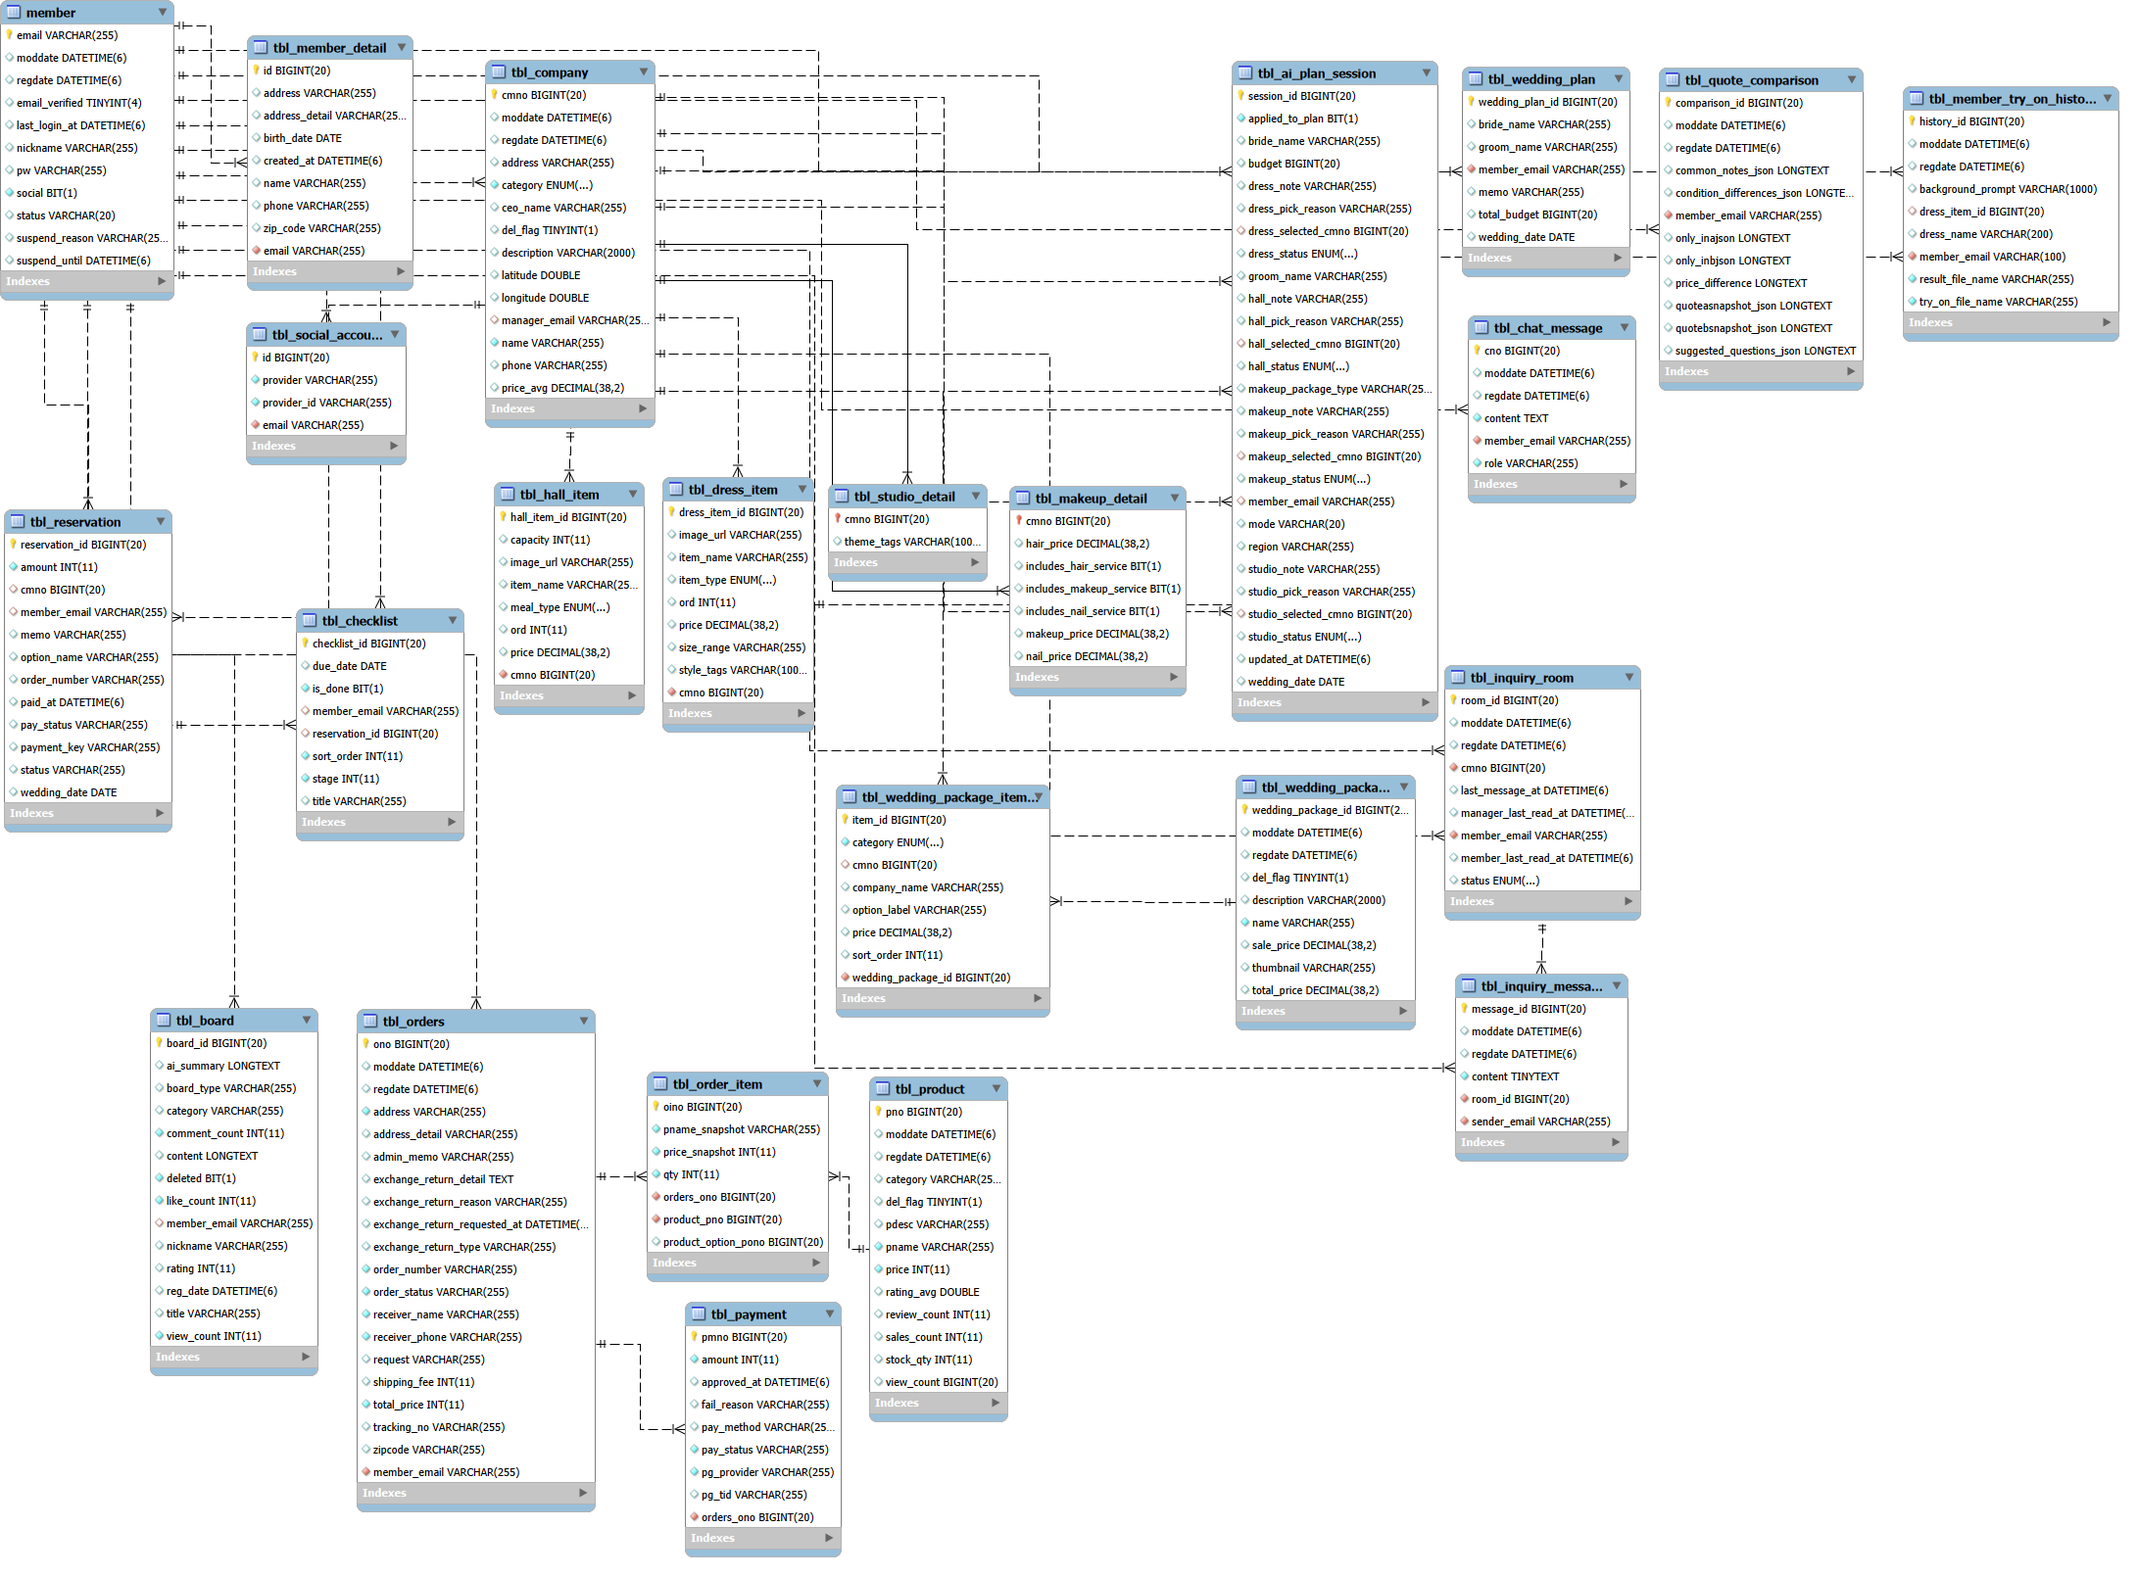
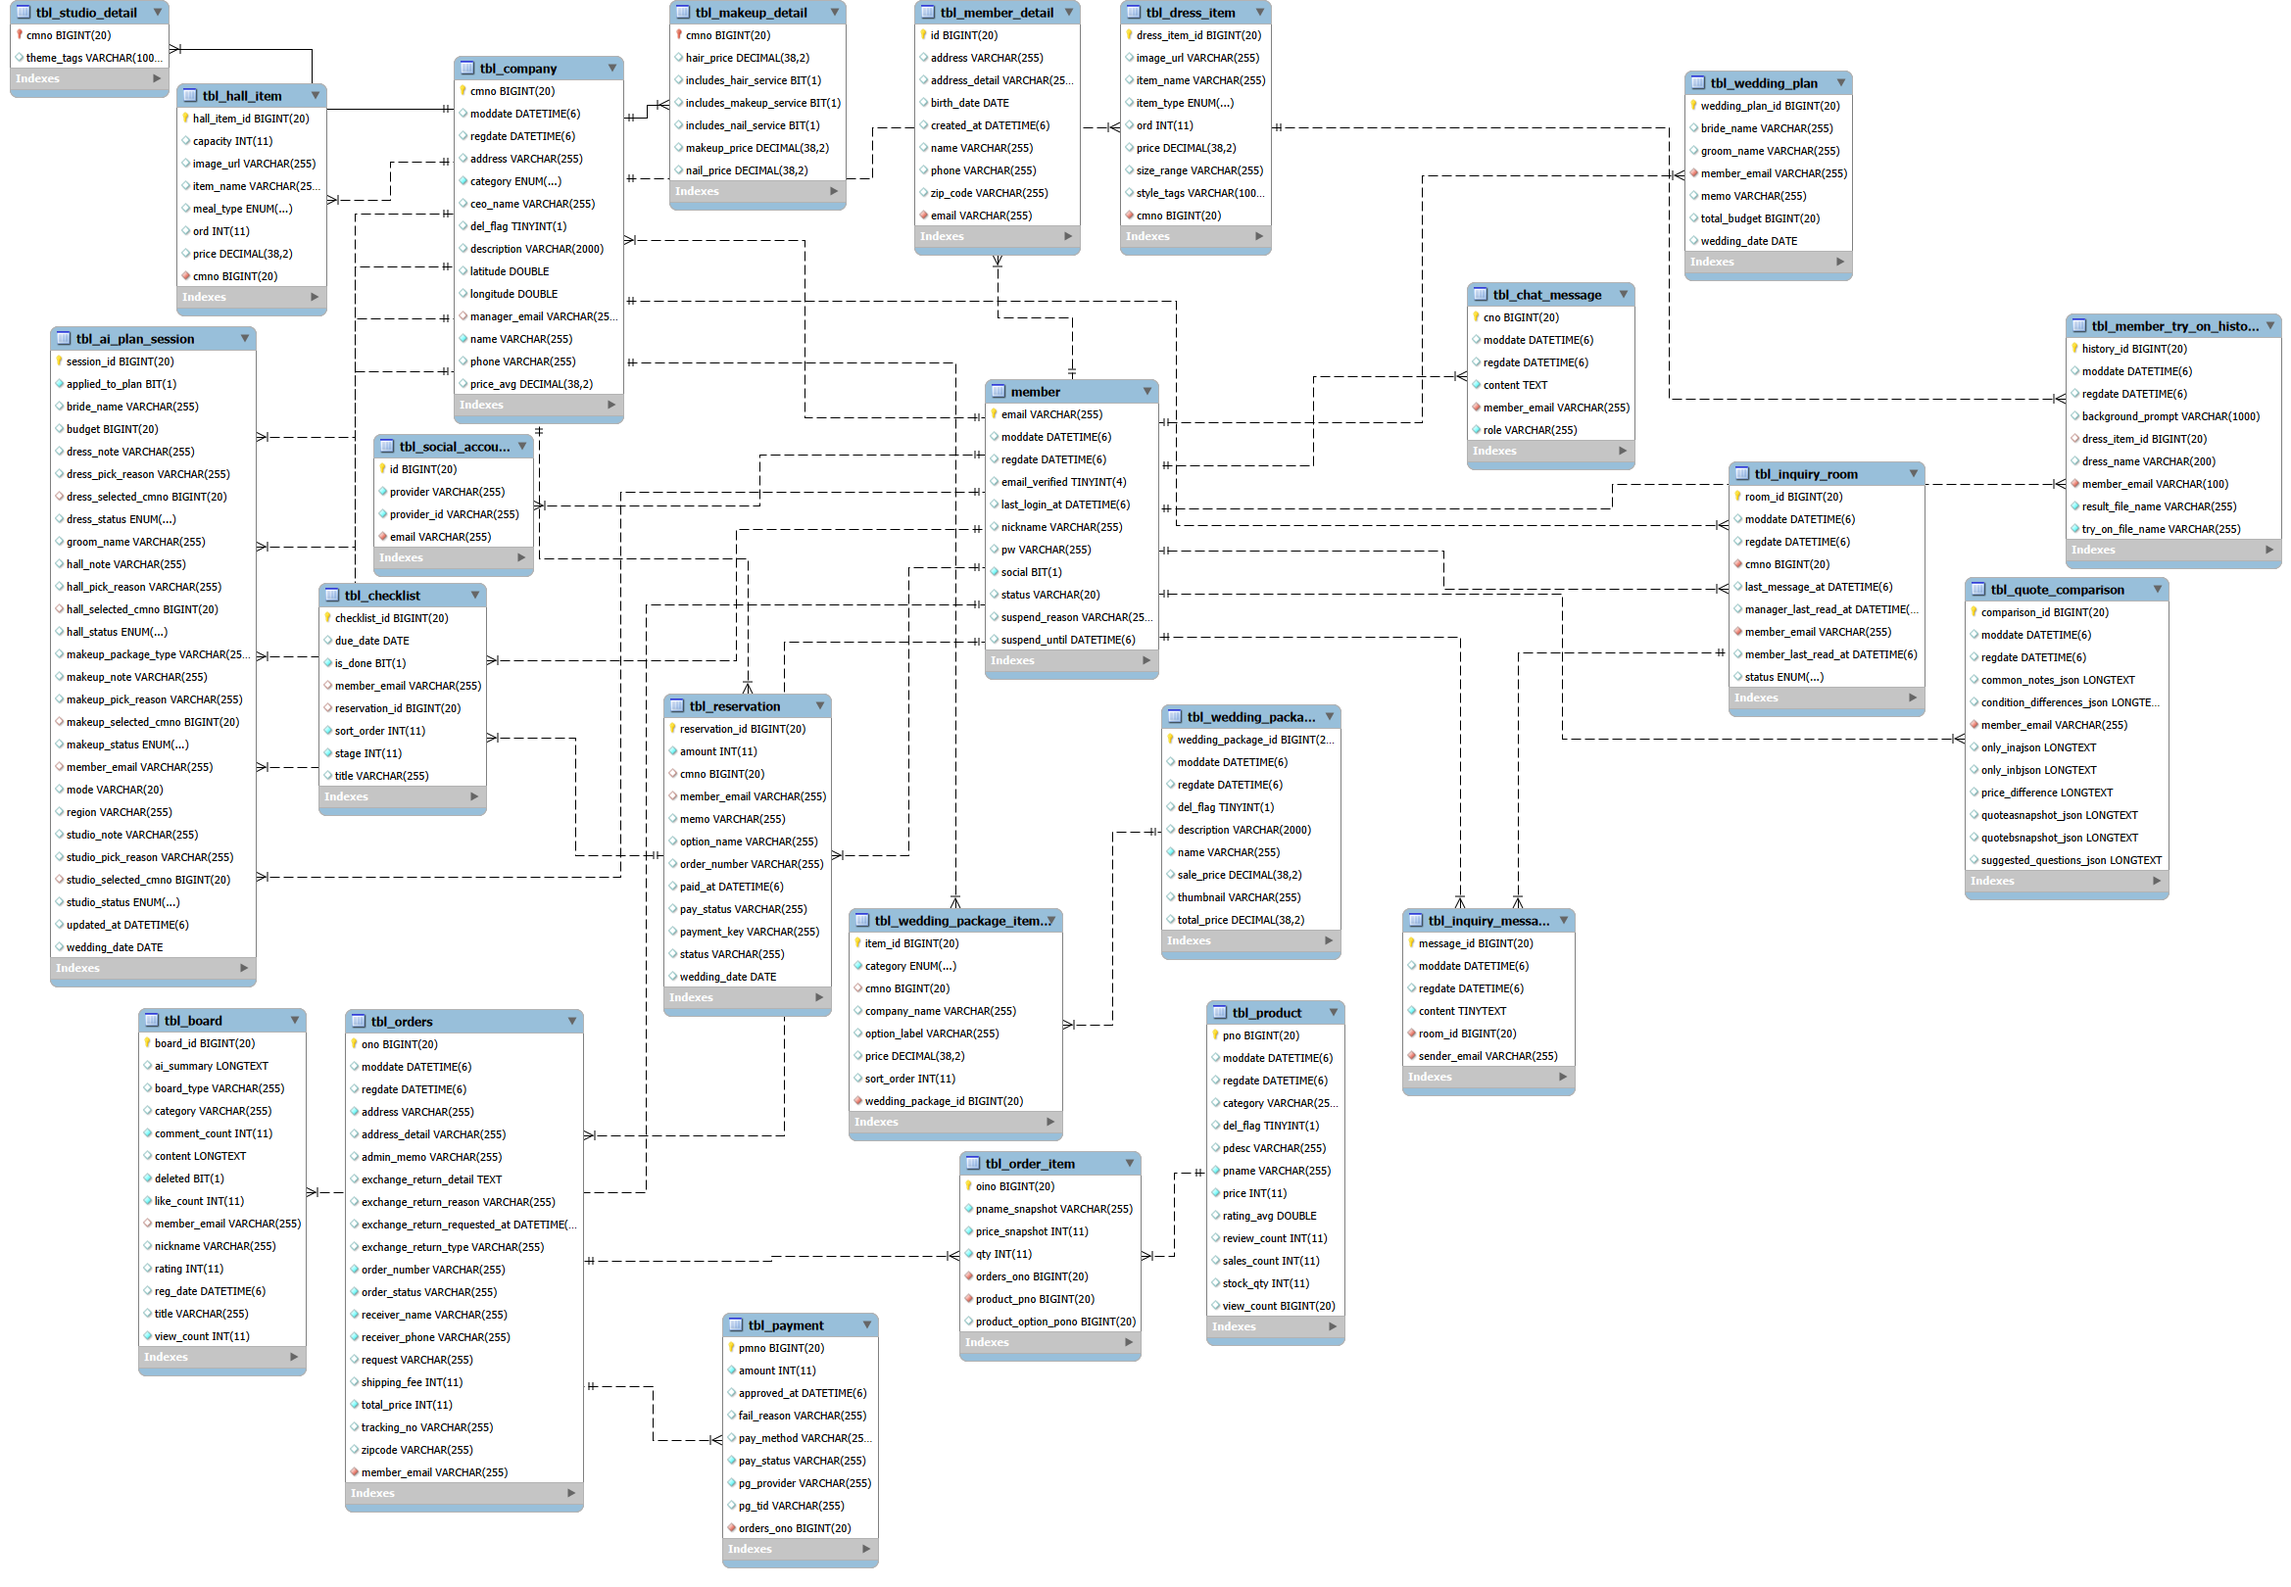
찐최종 ERD 이미지 반영 + 핵심 ERD 목차 앵커 수정
- docs/images/erd-diagram.png를 최종 재배치 버전으로 교체 (member 중앙 배치)
- 목차의 [핵심 ERD] 링크가 실제 헤더 앵커(#핵심-erd)를 가리키도록 수정
- ERD 이미지 alt 텍스트도 '핵심 ERD'로 통일

Changed region(s): [[0.0, 0.0, 0.9973, 0.9944]]

diff --git a/README.md b/README.md
@@ -14,7 +14,7 @@
 - [문제 정의 및 해결 방향](#문제-정의-및-해결-방향)
 - [기술 스택](#기술-스택)
 - [팀원 소개](#팀원-소개)
-- [핵심 ERD](#erd)
+- [핵심 ERD](#핵심-erd)
 - [유스케이스 다이어그램](#유스케이스-다이어그램)
 - [성능 최적화](#성능-최적화)
 - [트러블슈팅](#트러블슈팅)
@@ -124,7 +124,7 @@
 
 ## 핵심 ERD
 
-![ERD](docs/images/erd-diagram.png)
+![핵심 ERD](docs/images/erd-diagram.png)
 
 <br>
 
